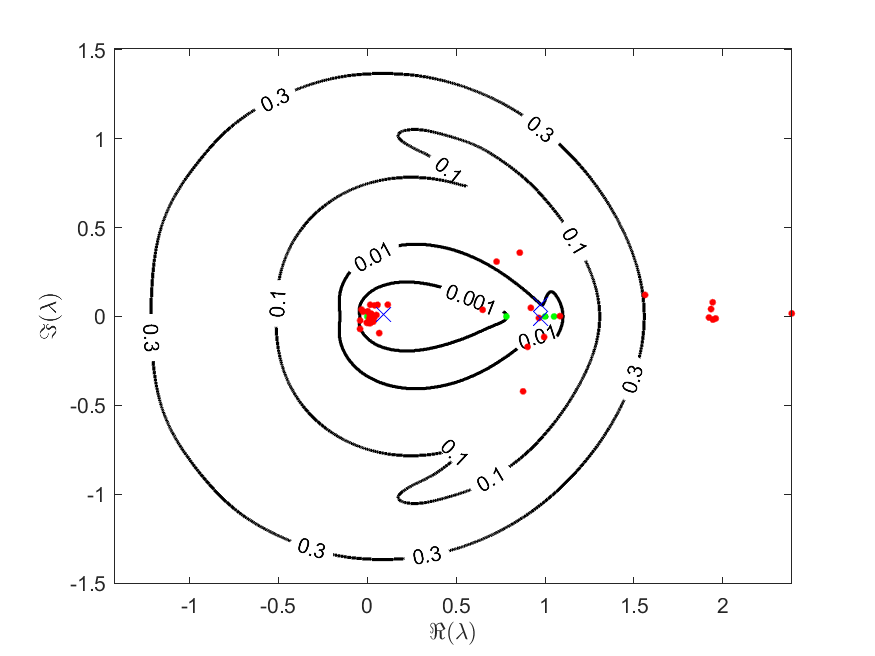
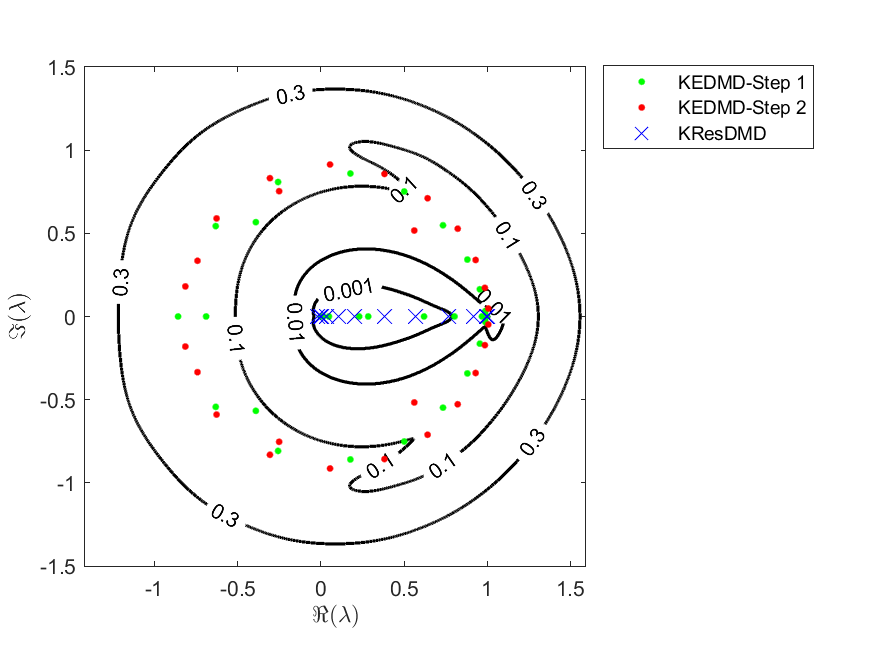
fixing kedmd

diff --git a/code/Kernelized_Gauss_iterated_map.m b/code/Kernelized_Gauss_iterated_map.m
@@ -55,14 +55,14 @@ for k = keySet
 end
 
 %% EDMD and KEDMD: RBF kernel and polynomial kernel
-epsilon = 0.1;     % Tolerance for ResDMD
+epsilon = 0.01;     % Tolerance for ResDMD
 M = 1000;
 quadratures = quadrature_nodes_weights(M, true);
 keySet = {'Montecarlo'};
 K_dominants = 40;
 
 % Kernels
-gamma = mean((quadratures('Montecarlo').x0-mean(quadratures('Montecarlo').x0)).^2);
+gamma = 1./mean((quadratures('Montecarlo').x0-mean(quadratures('Montecarlo').x0)).^2)^2;
 kernels = {@(x, y) exp(-gamma*(x-y)^2)};
 
 for i = 1:length(kernels)
@@ -87,8 +87,8 @@ for i = 1:length(kernels)
             hold on
         end
         axis square
-        [lambdas_1step, KFun] = KEDMD(x0, x1, w, kernel, K_dominants);
-        plot_eigenvalues(lambdas_1step, 'g.', 'MarkerSize', 10, 'DisplayName', 'KEDMD-1Step')
+        [lambdas_1step, KFun] = KEDMD(x0, x1, w, kernel, K_dominants,G,A,eta);
+        plot_eigenvalues(lambdas_1step, 'g.', 'MarkerSize', 10, 'DisplayName', 'KEDMD-Step 1')
         hold on
         %KResDMD
         quadratures = quadrature_nodes_weights(M, true);
@@ -97,10 +97,11 @@ for i = 1:length(kernels)
         x1 = F(x0);
         [lambdas_2step, ~] = EDMD(x0, x1, w, KFun);
         [lambdas_res_2step, ~] = ResDMD(x0, x1, w, KFun, epsilon);
-        plot_eigenvalues(setdiff(lambdas_2step, lambdas_res_2step), 'r.', 'MarkerSize', 10, 'DisplayName', 'KEDMD-2Step')
+        plot_eigenvalues(setdiff(lambdas_2step, lambdas_res_2step), 'r.', 'MarkerSize', 10, 'DisplayName', 'KEDMD-Step 2')
         plot_eigenvalues(lambdas_res_2step, 'bx', 'MarkerSize', 10, 'DisplayName', 'KResDMD')
         axis square
         axis equal
+        legend('','', '', '', 'KEDMD-Step 1','KEDMD-Step 2','KResDMD', 'Location','bestoutside')
         if saving
             saveas(fig, "figures/gauss_map/kernelized/KEDMD_2step_rbf_"+key, 'epsc')
             saveas(fig, "figures/gauss_map/kernelized/KEDMD_2step_rbf_"+key, 'png')
